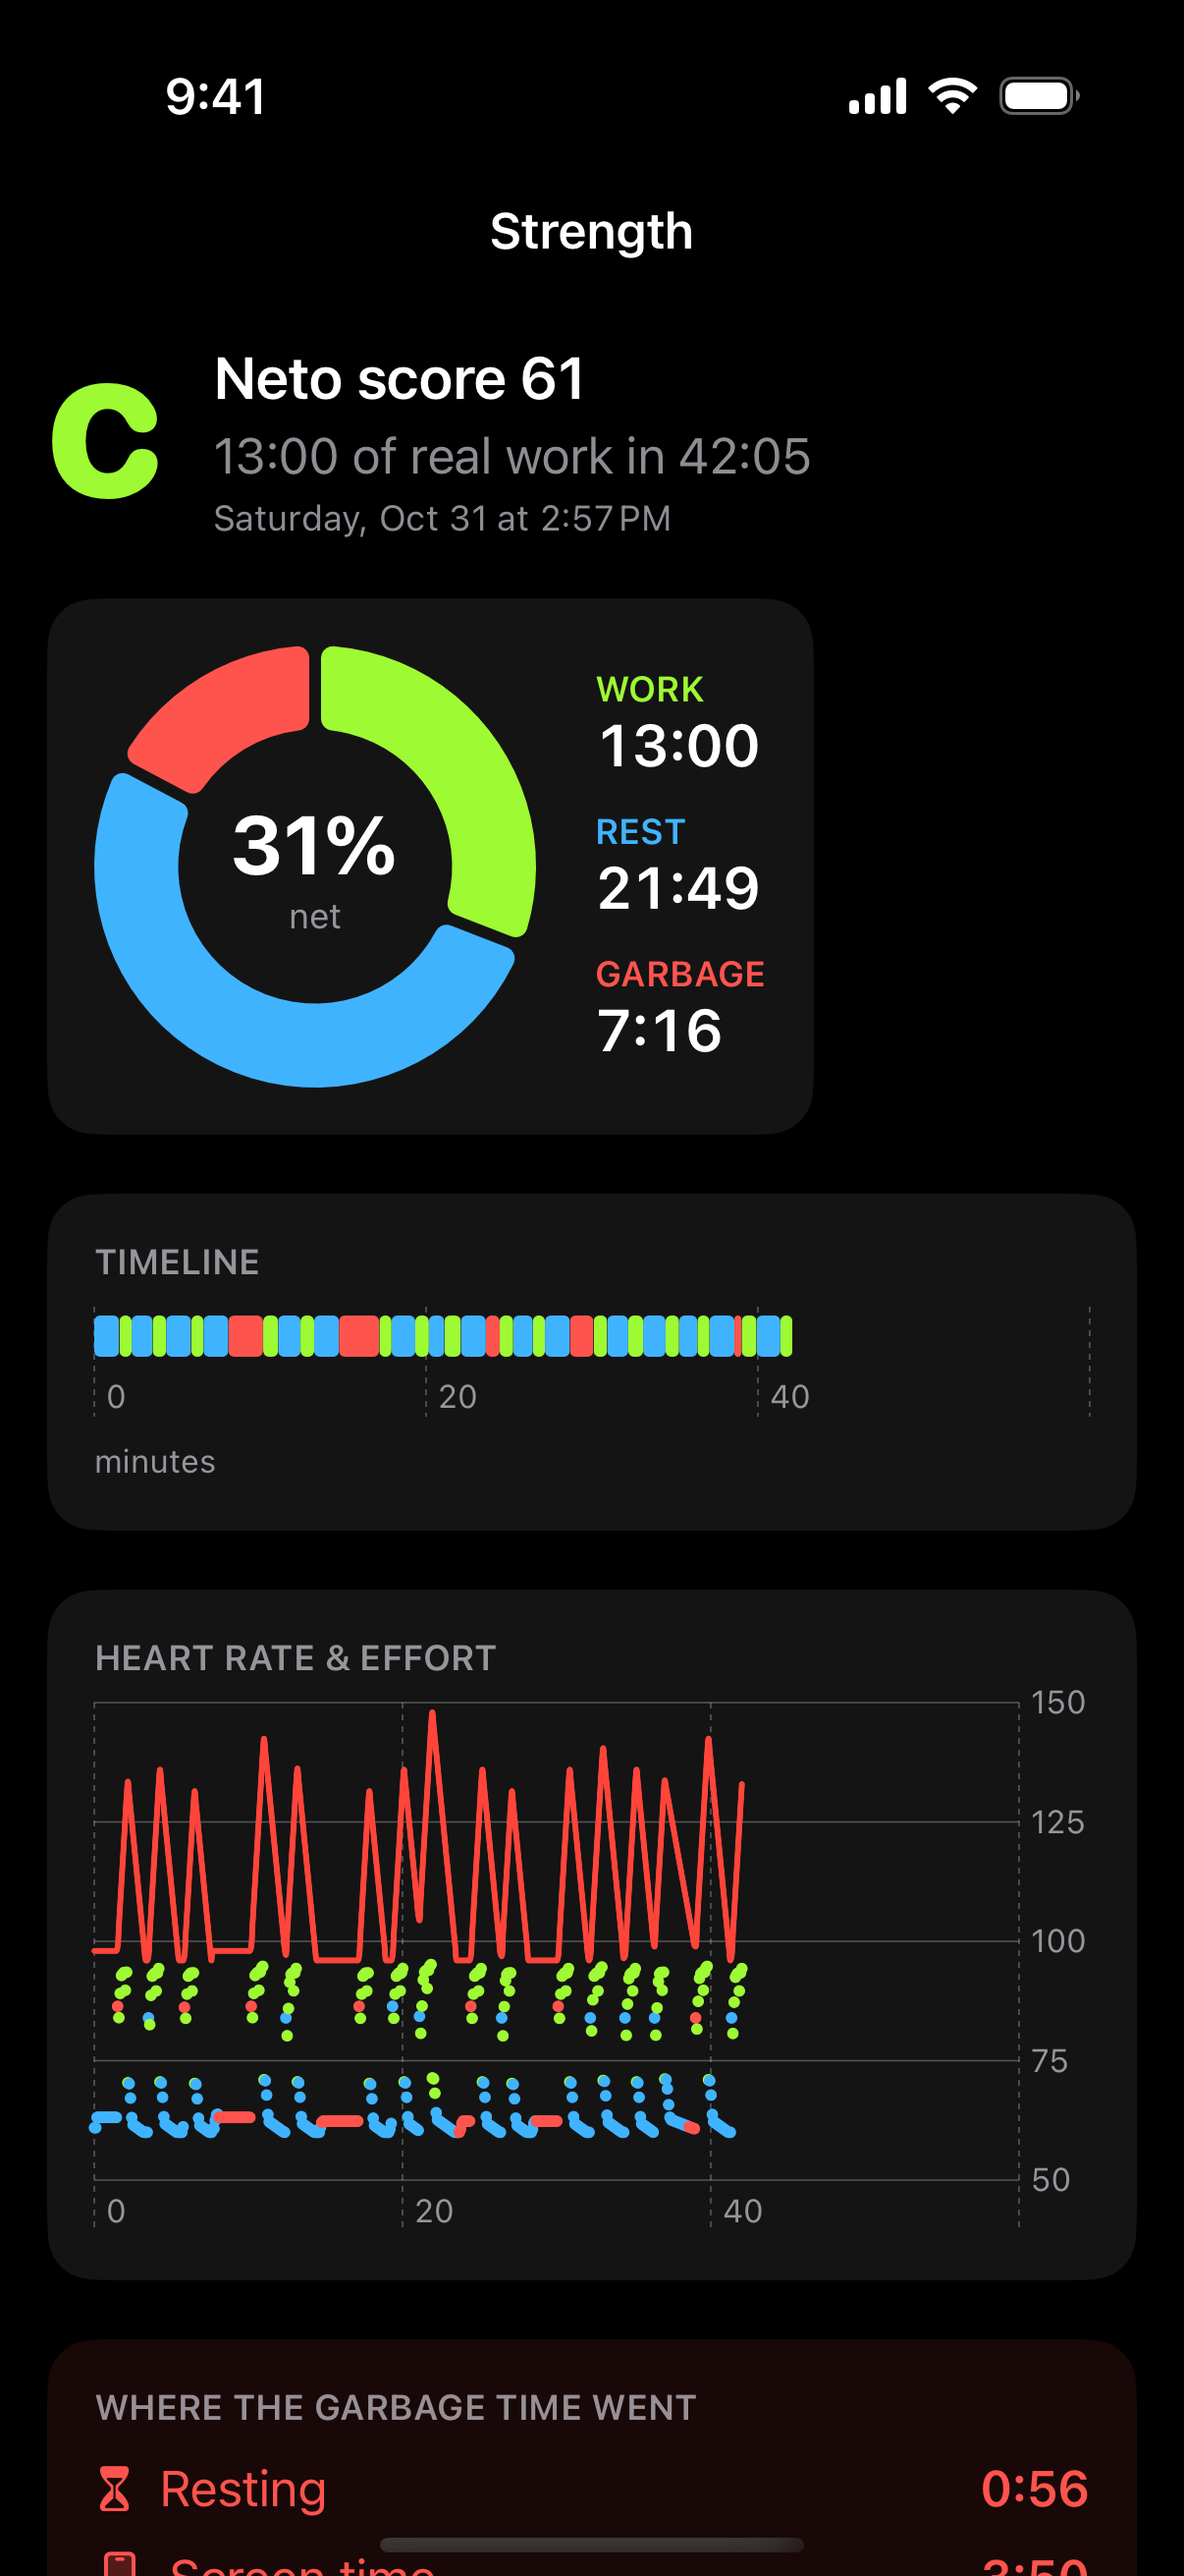
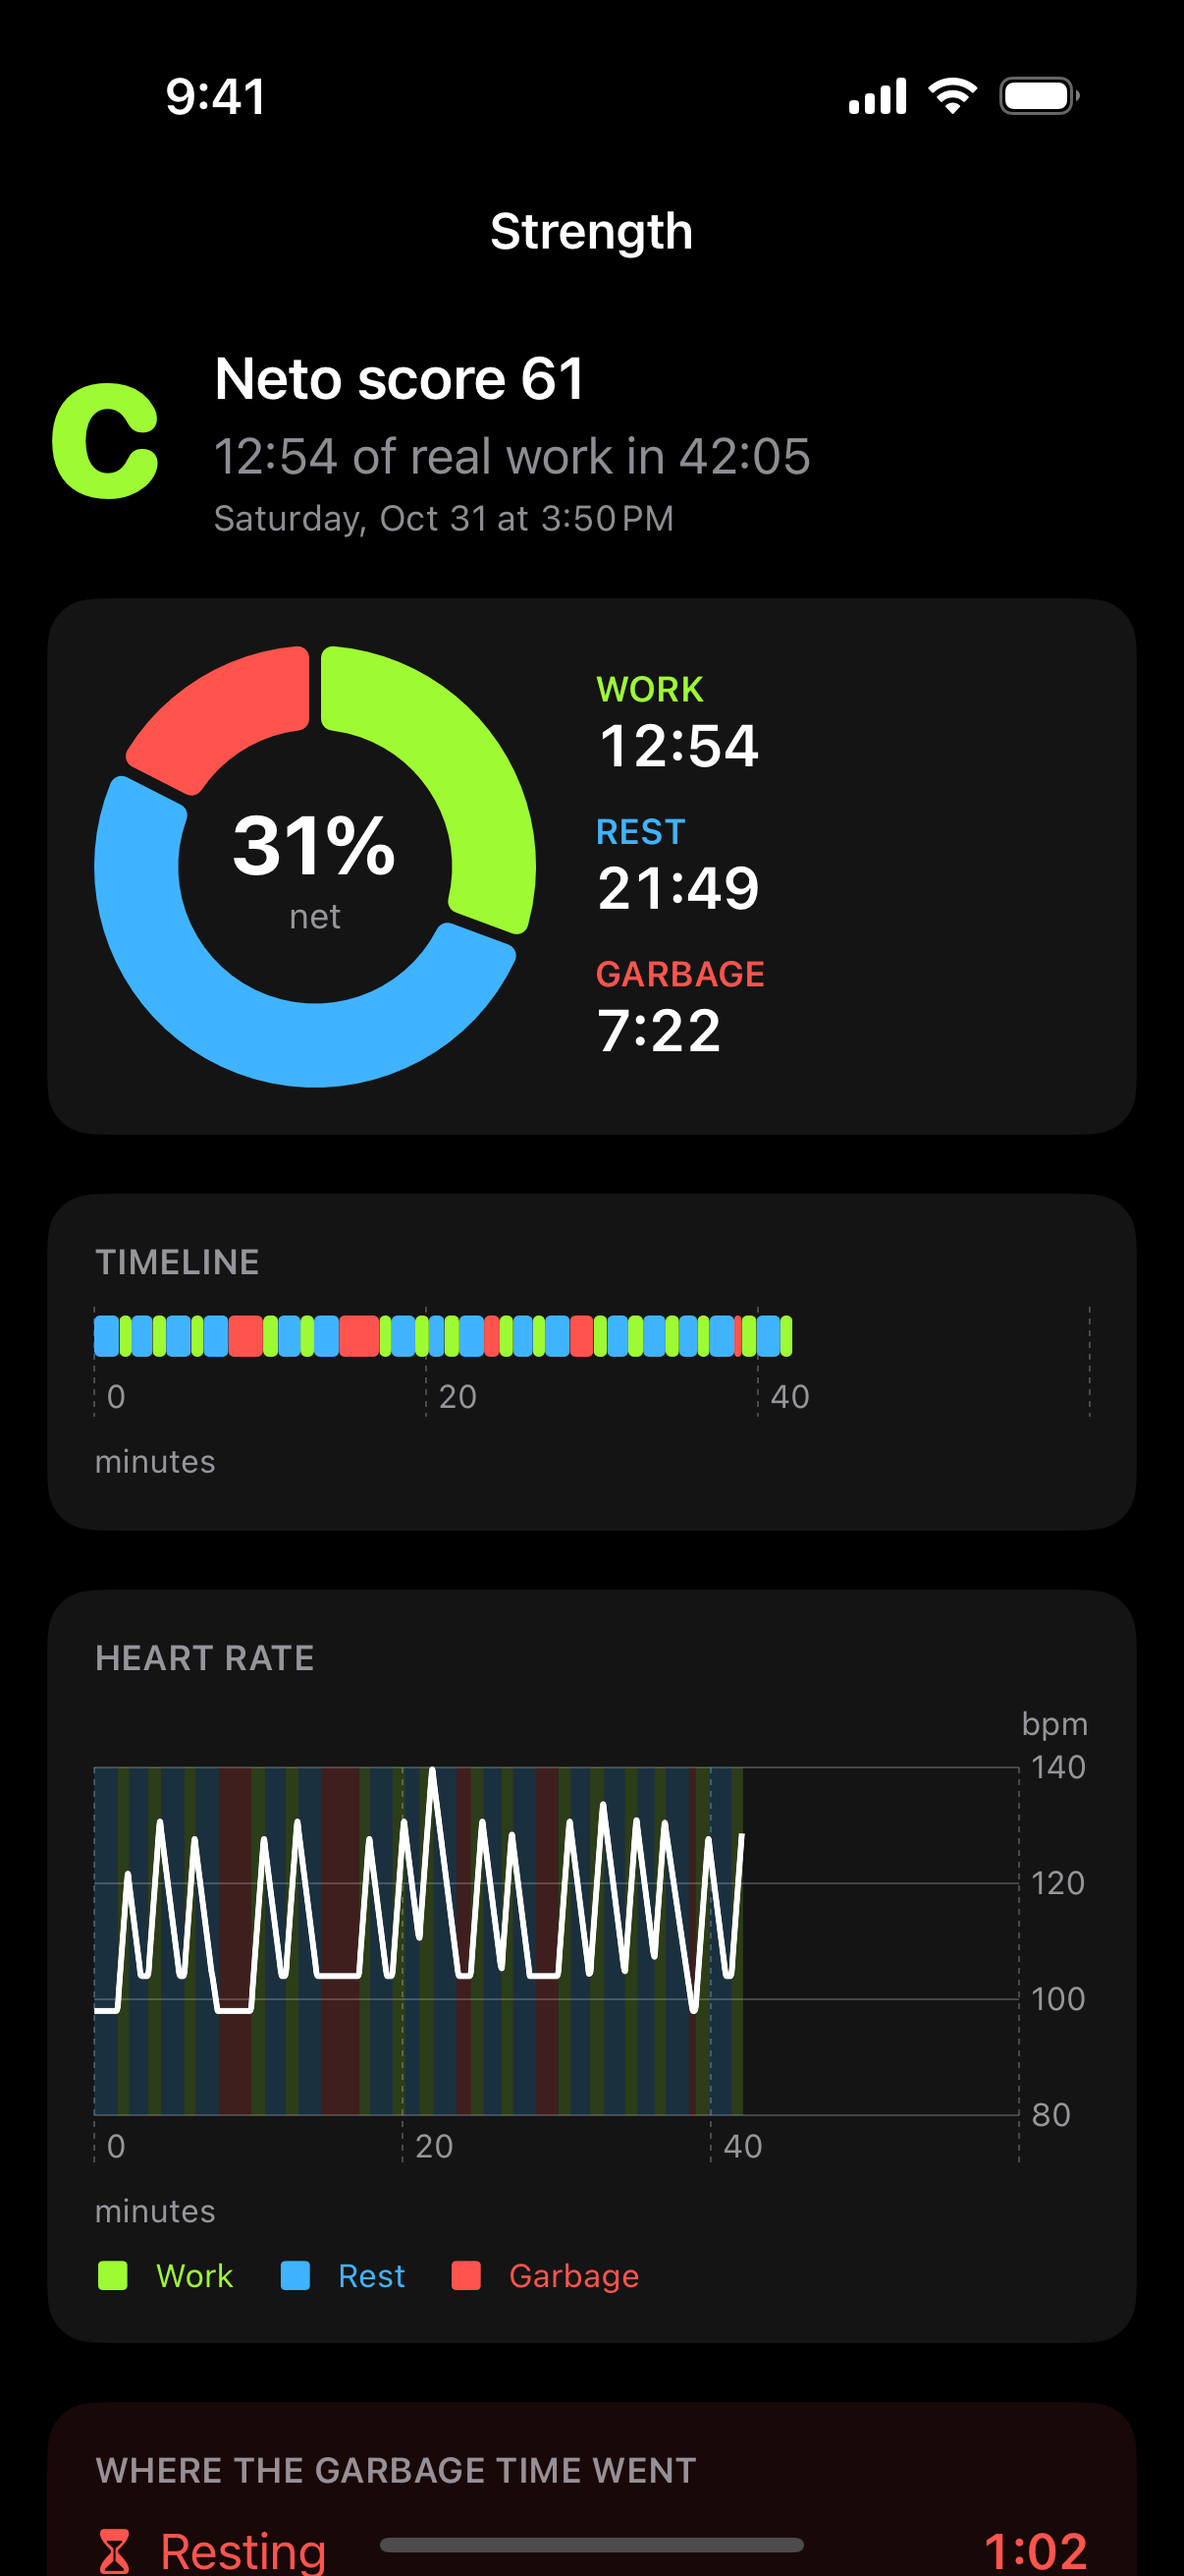
Charts end where the workout ends; fresh screenshots; iPhone install guide
Claude-Session: https://claude.ai/code/session_01LjscUvBUQvZMLaiBbxt7qT

diff --git a/GymNeto/SummaryView.swift b/GymNeto/SummaryView.swift
@@ -82,6 +82,7 @@ struct SummaryView: View {
                     .foregroundStyle(s.state.color)
             }
             .chartYAxis(.hidden)
+            .chartXScale(domain: 0...max(1, record.totals.total / 60))
             .chartXAxisLabel("minutes")
             .frame(height: 60)
         }
@@ -108,6 +109,7 @@ struct SummaryView: View {
                 }
             }
             .chartYScale(domain: .automatic(includesZero: false))
+            .chartXScale(domain: 0...max(1, record.totals.total / 60))
             .chartXAxisLabel("minutes")
             .chartYAxisLabel("bpm")
             .frame(height: 180)

diff --git a/README.md b/README.md
@@ -87,17 +87,28 @@ GymNetoWidgets/      iOS Live Activity (lock screen + Dynamic Island)
 project.yml        XcodeGen spec
 ```
 
-## Build
+## Put it on your iPhone
 
-Needs a Mac with Xcode 15+.
+**What you need:** a Mac with Xcode 16, an Apple ID and your iPhone (+ Apple Watch for the full app).
 
-```bash
-brew install xcodegen
-xcodegen generate
-open GymNeto.xcodeproj
-```
+1. Install the tools and make the Xcode project:
+   ```bash
+   brew install xcodegen
+   git clone https://github.com/ariberko/Gym-Neto.git && cd Gym-Neto
+   xcodegen generate
+   open GymNeto.xcodeproj
+   ```
+2. In Xcode -> Settings -> Accounts, sign in with your Apple ID.
+3. Bundle IDs must be unique to you. Find and replace every `com.gymneto` with something like `com.yourname.gymneto` in `project.yml` and `Shared/GlanceStore.swift`, then run `xcodegen generate` again.
+4. For each of the 4 targets: Signing & Capabilities -> Team -> pick your team.
+5. Plug in your iPhone, choose it at the top of Xcode and press **Run**. The watch app installs with it.
+6. On the iPhone: Settings -> General -> VPN & Device Management -> trust your Apple ID. Allow Health and Motion when the app asks.
 
-Set your Development Team on all 4 targets (and register the App Group `group.com.gymneto.app` for the watch app + watch widget), then run the `GymNeto` scheme on your iPhone (the watch app installs with it).
+A free Apple ID is fine for testing on your own phone (the app must be re-installed every 7 days). Sharing with friends (TestFlight) or the App Store needs the paid Apple Developer Program.
+
+### Try it without a device
+
+Run in the simulator with demo data: Edit Scheme -> Arguments -> add `-demo -screen home` (or `live`, `summary`, `settings`). The real sensors don't exist in the simulator.
 
 Run the engine tests:
 
